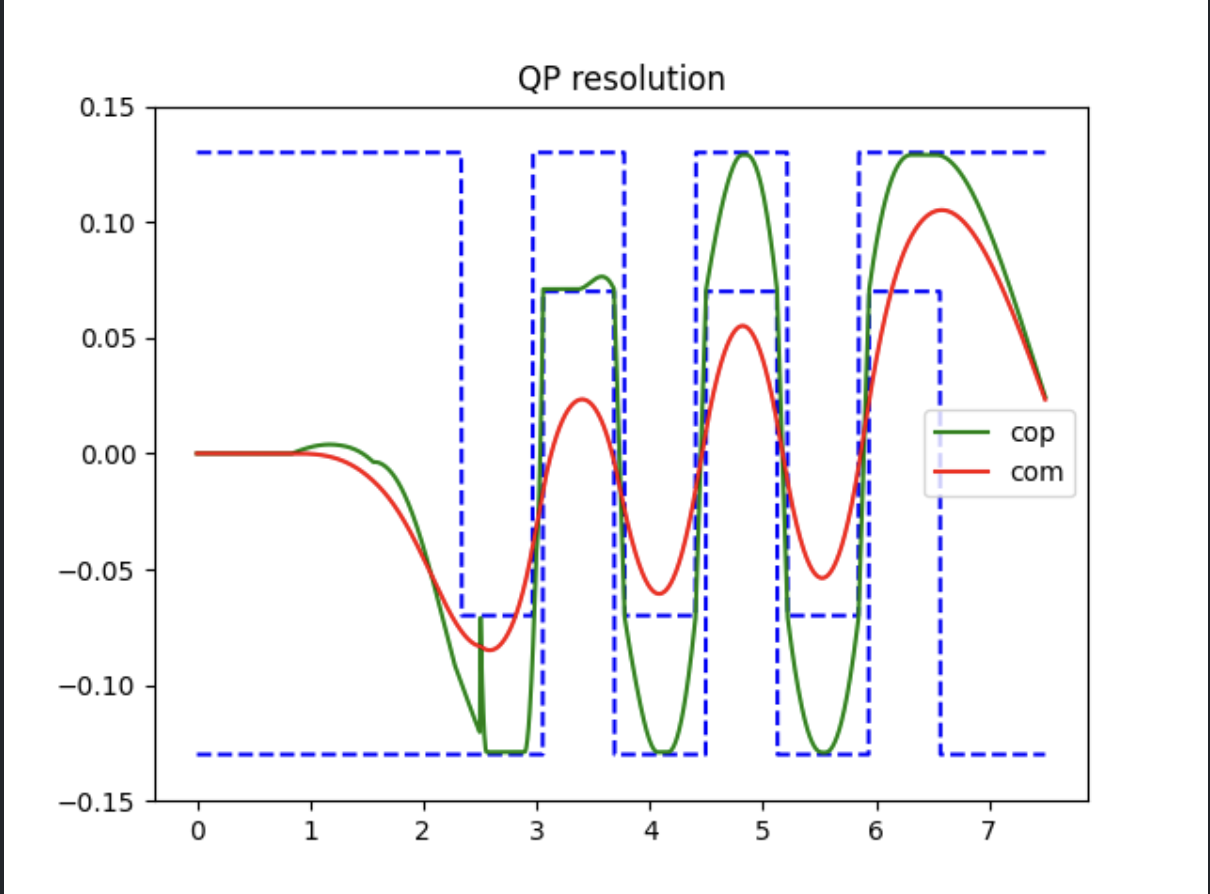
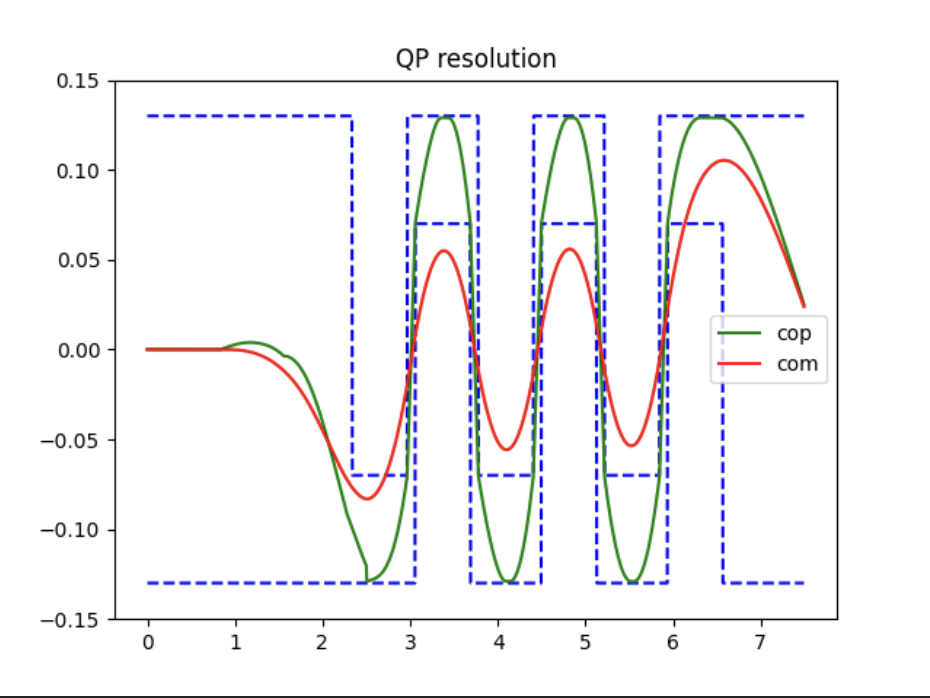
changing direction of perturbation force

Changed region(s): [[0.0, 0.0, 1.0, 1.0]]

diff --git a/src/main.py b/src/main.py
@@ -193,7 +193,7 @@ def simulation_with_feedback():
 
 
 
-def simulation_with_feedback_qp():
+def simulation_qp():
     t_step = 5e-3
     # We simulate from 0 to 9 (s)
     steps = int(9/t_step)
@@ -226,7 +226,7 @@ def simulation_with_feedback_qp():
     return cop, com, com_velocity, com_acceleration, zk_min, zk_max, x
 
 
-def simulation_with_feedback_qp_perturbations():
+def simulation_qp_perturbations():
     t_step = 5e-3
     # We simulate from 0 to 9 (s)
     steps = int(9/t_step)
@@ -257,7 +257,7 @@ def simulation_with_feedback_qp_perturbations():
         # perturbation after (2.5 seconds)
         if i == 500:
             # 2.5 seconds we add an impact, it changes the acceleration
-            next[2] -= 10
+            next[2] += 2
         prev = next
     x = np.arange(0, 9, t_step)
     return cop, com, com_velocity, com_acceleration, zk_min, zk_max, x
@@ -284,11 +284,12 @@ def simulation_with_perturbations():
         com.append(next[0])
         com_velocity.append(next[1])
         com_acceleration.append(next[2])
+        copInter = np.array([1, 0, -h_com / g]) @ next
         cop.append(np.array([1, 0, -h_com / g]) @ next)
         # perturbation after (2.5 seconds)
         if i == 500:
             # 2.5 seconds we add an impact, it changes the acceleration
-            next[2] -= 10
+            next[2] += 0.5
         prev = next
     x = np.arange(0, 9, t_step)
     return cop, com, com_velocity, com_acceleration, zk_ref, x
@@ -296,7 +297,7 @@ def simulation_with_perturbations():
 
 
 def main():
-    cop, com, _, _, zk_min, zk_max, x = simulation_with_feedback_qp_perturbations()
+    cop, com, _, _, zk_min, zk_max, x = simulation_qp_perturbations()
     # x is used to show the proper scale in the x-axis
     x = x[:len(cop)]
     plt.plot(x, zk_min[:len(cop)], linestyle="--", color="blue")

diff --git a/README.md b/README.md
@@ -20,5 +20,6 @@
 ## Adding perturbations to the qp resolution method
 
 We use a OSQP solver from the python library qpsolvers
+Impact of force 0.5 m.s-2
 
 ![Example Image](plots/qp_perturbations.png)
